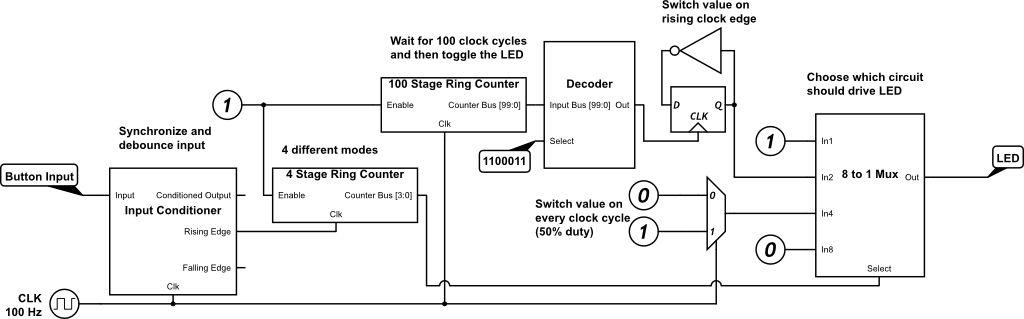
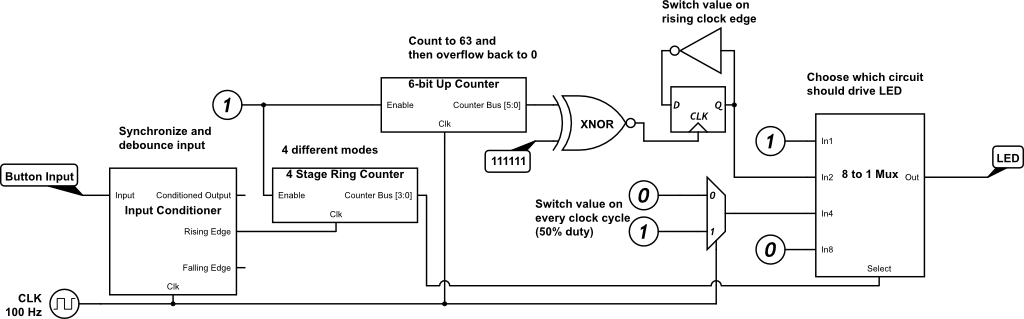
new counter

diff --git a/midterm/midterm.md b/midterm/midterm.md
@@ -38,7 +38,12 @@ System provides output to one LED whose state can either be ON or OFF.
 
 ####Total Circuit  
 ![schematic high level](http://i.imgur.com/te9xqFK.png)
-This circuit uses an input conditioner to debounce the physical button input. On the rising edge of the button signal (when the button is pressed down), a 4-stage ring-counter increments by 1. The output of this ring-counter is the current mode of the LED, using a one-hot encoding. This 4-bit value is passed on to an 8-to-1 multiplexer which passes the corresponding driver signal to the LED. The multiplexer is an 8-to-1 instead of a 4-to-1 because of the one-hot encoding of the mode, where the 4 modes correspond to values of 1 (0b0001), 2 (0b0010), 4 (0b0100), and 8 (0b1000). The ON and OFF driver circuits are fairly self-explanatory, they hold values at 1 and 0 respectively. The BLINKING driver circuit uses a 100-stage ring-counter to toggle the LED every second. The DIM driver circuit wires the system clock (100Hz) directly to a 2-to-1 multiplexer to toggle the LED value every .01 seconds. This results in a 50% duty cycle for the LED, effectively dimming the LED by half.
+This circuit uses an input conditioner to debounce the physical button input. On the rising edge of the button signal (when the button is pressed down), a 4-stage ring-counter increments by 1. The output of this ring-counter is the current mode of the LED, using a one-hot encoding. This 4-bit value is passed on to an 8-to-1 multiplexer which passes the corresponding driver signal to the LED. The multiplexer is an 8-to-1 instead of a 4-to-1 because of the one-hot encoding of the mode, where the 4 modes correspond to values of 1 (0b0001), 2 (0b0010), 4 (0b0100), and 8 (0b1000). The ON and OFF driver circuits are fairly self-explanatory, they hold values at 1 and 0 respectively. The BLINKING driver circuit uses an up-counter to toggle the state of the LED every 64 clock cycles (1.56Hz) The DIM driver circuit wires the system clock (100Hz) directly to a 2-to-1 multiplexer to toggle the LED value every .01 seconds. This results in a 50% duty cycle for the LED, effectively dimming the LED by half.
+
+####Up Counter
+![schematic counter](http://i.imgur.com/07tM6mJ.png)
+This up counter takes no inputs and uses 6 D flip-flops to count by 1 every clock cycle, overflowing at 0b111111.
+Made with reference to [learnabout-electronics.org](http://www.learnabout-electronics.org/Digitcal/dig56.php)
 
 ####Input Conditioner  
 ![schematic input conditioner](http://i.imgur.com/8cwSvZ1.png)
@@ -47,3 +52,7 @@ The input conditioner synchronizes a noisy input signal (coming from the button)
 ####Shifter  
 ![schematic shifter](http://i.imgur.com/qClMSGM.png)
 This component takes a 4-bit number and shifts the bits to the left by one place. The Least Significant Bit is filled with a 0.
+
+###Cost Breakdown
+
+####Component Costs
